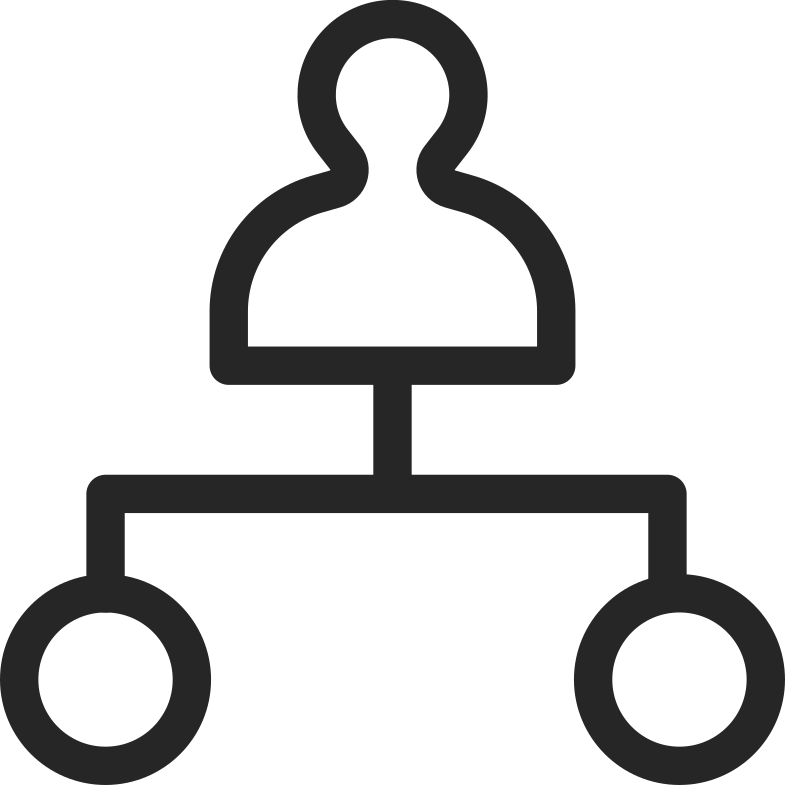
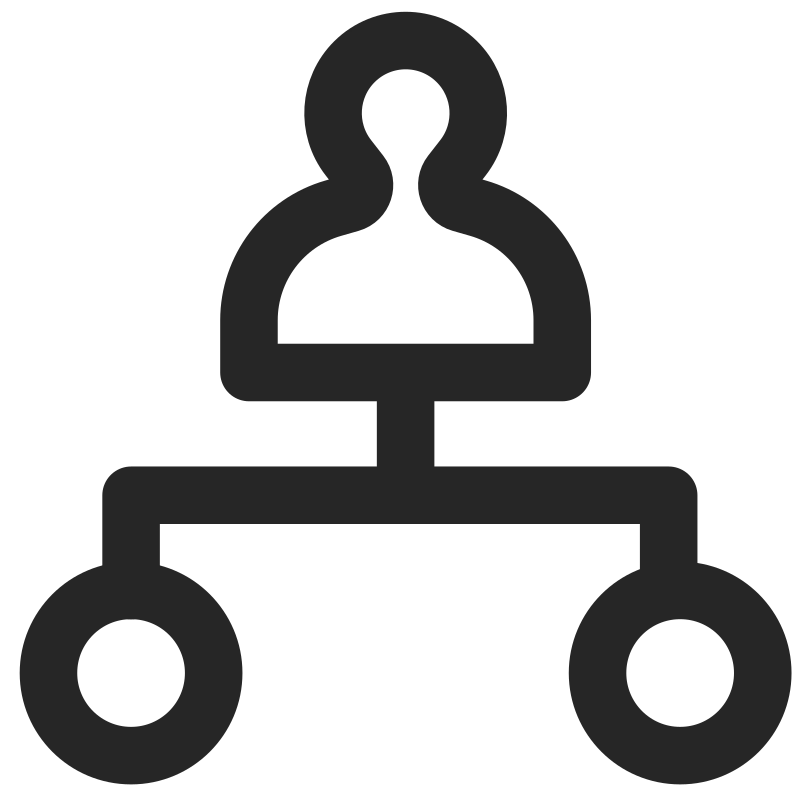
fix image weight index pages stroke width

diff --git a/node-operators/block-producers/onboarding/proxy-accounts.md b/node-operators/block-producers/onboarding/proxy-accounts.md
@@ -27,7 +27,7 @@ If you need help importing your accounts into Polkadot.js Apps, please check out
 
 ## Creating a Staking Proxy Account {: #creating-a-staking-proxy-account }
 
-There are a couple of ways you can create proxy accounts in [Polkadot.js Apps](https://polkadot.js.org/apps/?rpc=wss%3A%2F%2Ffraa-dancebox-rpc.a.dancebox.tanssi.network#/accounts){target=\_blank}, either from the **Extrinsics** page or the **Accounts** page. However, to create a time-delayed proxy, you will need to use the **Extrinsics** page. A time delay provides an additional layer of security to proxies by specifying a delay period based on the number of blocks. This will prevent the proxy account from executing a transaction until the delay period ends. The delay allows time for the primary account that controls the proxy to review pending transactions, potentially for malicious actions, and cancel if necessary before execution.
+There are a couple of ways you can create proxy accounts in [Polkadot.js Apps](https://polkadot.js.org/apps/?rpc=wss%3A%2F%2Ffraa-dancebox-rpc.a.dancebox.tanssi.network#/accounts){target=\_blank}, either from the **Extrinsics** page or the **Accounts** page. However, to create a time-delayed proxy, you will need to use the **Extrinsics** page. A time delay provides an additional layer of security to proxies by specifying a delay period based on the number of blocks. This will prevent the proxy account from executing a transaction until the delay period ends. The delay allows time for the primary account that controls the proxy to review pending transactions and provides a limited period of time to cancel any actions.
 
 You also have the option of creating a proxy of type **Any** which grants the proxy account full and unrestricted control over the primary account. This means that the proxy account can transfer funds, and perform any arbitrary action. The following demo will showcase configuring a **Staking** proxy, which is more restrictive than an **Any** proxy, as it limits functions to activities that pertain to staking, such as delegating, undelegating, and mapping session keys. 
 
